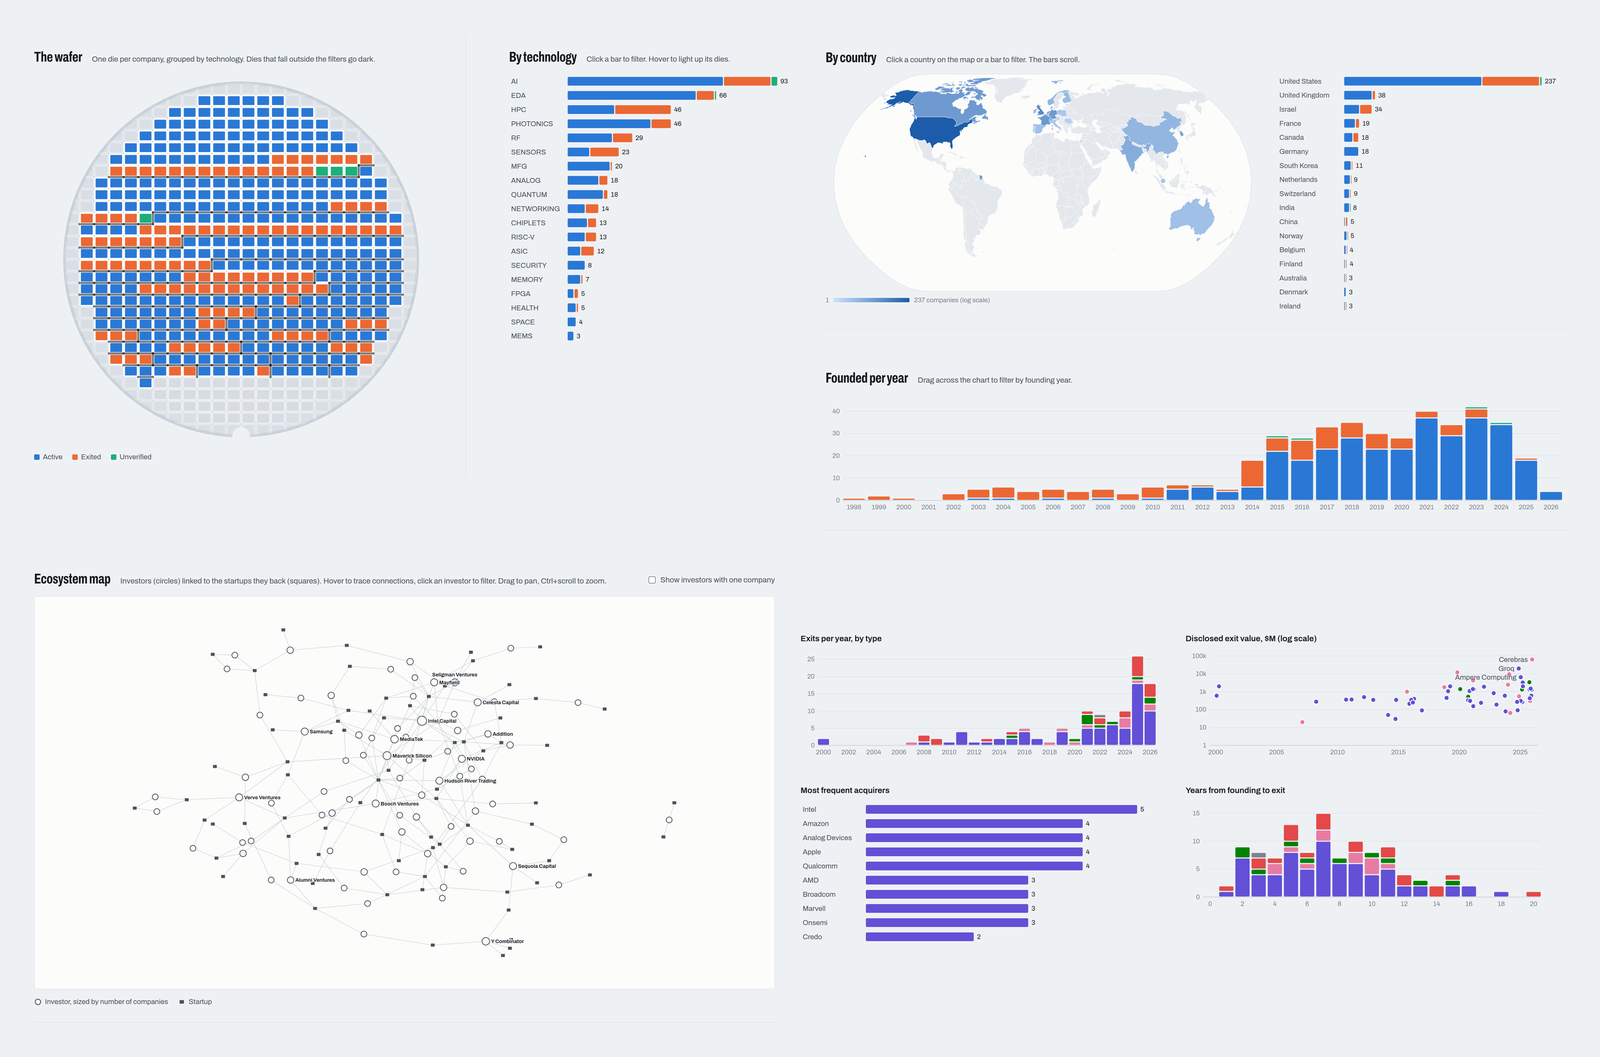
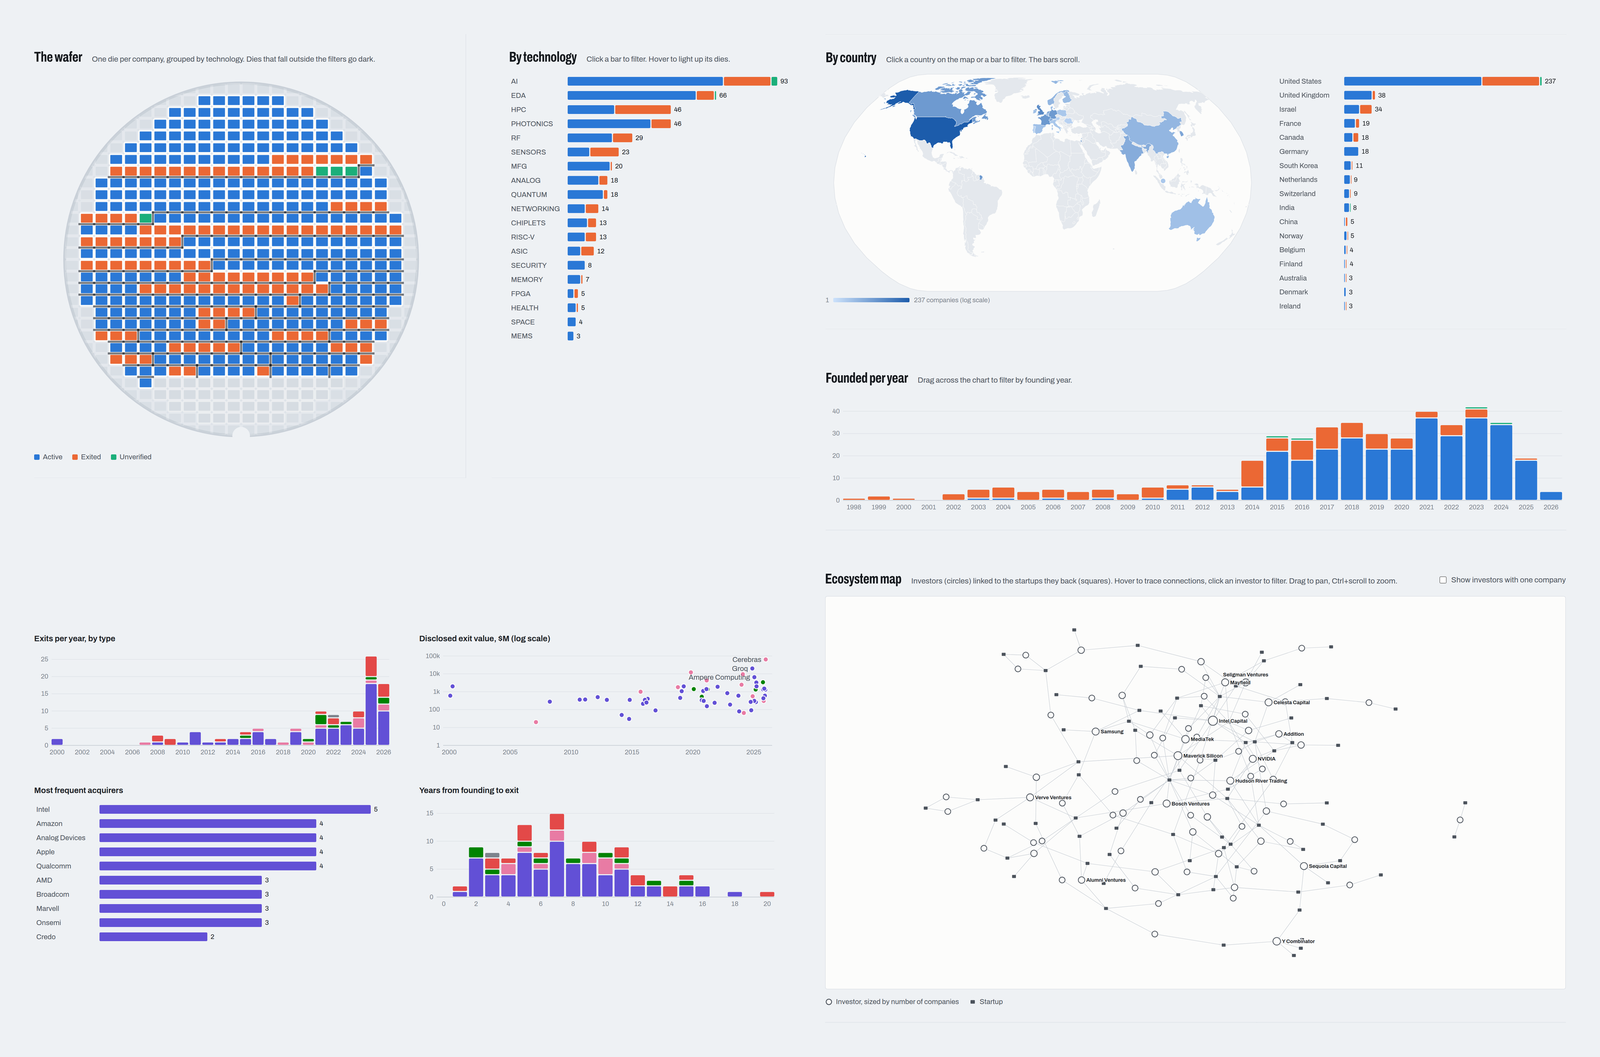
tweak preview

diff --git a/dashboard/preview/compose.py b/dashboard/preview/compose.py
@@ -6,7 +6,7 @@ same size across the collage.
 
 Layout:
   row 1: wafer | technology | map over founded-per-year
-  row 2: ecosystem map | the four exit charts in a 2x2 grid
+  row 2: the four exit charts in a 2x2 grid | ecosystem map
 """
 import sys
 from PIL import Image
@@ -30,8 +30,9 @@ for k in ("wafer", "tech"):
     canvas.paste(r[k], (x, PAD)); x += r[k].width + GAP
 canvas.paste(r["map"], (x, PAD)); canvas.paste(r["founded"], (x, PAD + r["map"].height + GAP))
 y2 = PAD + H1 + GAP
-canvas.paste(r["network"], (PAD, y2))
-gx = PAD + r["network"].width + GAP
+# The network goes flush with the right margin; the exit grid takes the left.
+canvas.paste(r["network"], (W - PAD - r["network"].width, y2))
+gx = PAD
 # Centre the exit grid vertically beside the taller network panel.
 y = y2 + (H2 - grid_h) // 2
 for row, h in zip(grid, row_h):
